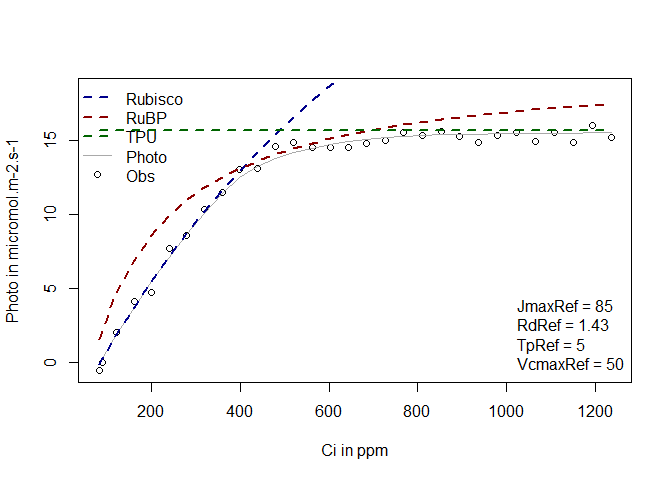
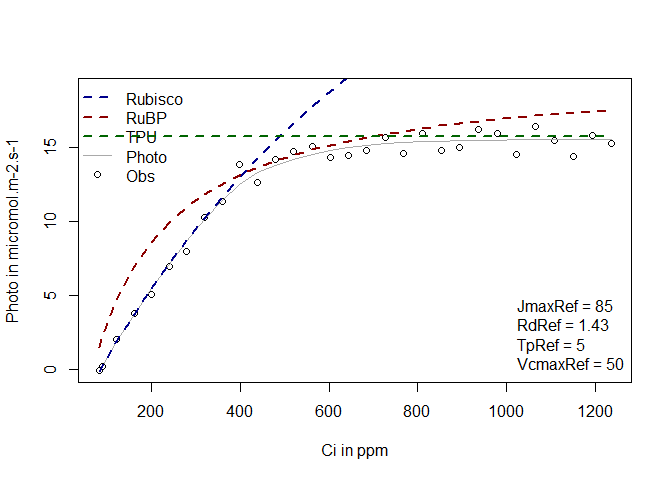
Adding the propagation of uncertainty to caclulate the confidence interval and the prediction interval of the photosynthesis

diff --git a/vignettes/Aci_fitting.md b/vignettes/Aci_fitting.md
@@ -29,21 +29,23 @@ Tair=27+273.16
 PAR=1800
 RH=80
 simul=f.A(PFD = PAR,cs = CO2,Tleaf = Tleaf,Tair = Tair,RH = RH,param = param)
-simul$A=simul$A+rnorm(n = length(CO2),mean = 0,sd = 0.4)
+
+# Here we include a normal error with a standard deviation proportionnal to the gross photosynthesis (as it is often observed)
+
+noise=unlist(lapply(X = simul$Ag,FUN = function(x){rnorm(n=1,mean=0,sd=0.035*(x))}))
+simul$A=simul$A+noise
 measures=data.frame(Tleaf=Tleaf,Ci=simul$ci,PARi=PAR,Photo=simul$A)
 ```
 
 We display this simulated curve using the function f.plot
 
 ``` r
-f.plot(measures = measures,type = 'Aci',
-       list_legend = param[c('VcmaxRef','JmaxRef','TpRef','RdRef')],
-       param = param)
+f.plot(measures = measures,type = 'Aci',list_legend = param[c('VcmaxRef','JmaxRef','TpRef','RdRef')],param = param)
 ```
 
 ![](Aci_fitting_files/figure-gfm/unnamed-chunk-2-1.png)<!-- -->
 
-\#\#Fitting an Aci curve
+## Fitting an Aci curve
 
 To fit an Aci curve, it is necessary to detail the parameter that we
 want to estimate. All the parameters present in f.make.param can
@@ -60,22 +62,19 @@ photosynthesis are used. In this example, we also give a very high value
 to TpRef so the TPU limitation is not considered when fitting the curve.
 
 ``` r
-fitting1=f.fitting(measures = measures,
-                   Start = list(JmaxRef = 30, VcmaxRef = 50, RdRef = 1),
-                   param=f.make.param(TpRef=50),
-                   modify.init=TRUE,do.plot=TRUE,type='Aci')
+fitting1=f.fitting(measures = measures,Start = list(JmaxRef = 30, VcmaxRef = 50, RdRef = 1),param=f.make.param(),modify.init=TRUE,do.plot=TRUE,type='Aci')
 ```
 
     ## $par
-    ##   JmaxRef  VcmaxRef     RdRef 
-    ## 79.161990 49.179085  1.212728 
+    ##  JmaxRef VcmaxRef    RdRef 
+    ## 78.51244 48.36841  1.16680 
     ## 
     ## $value
-    ## [1] 9.918262
+    ## [1] 17.35969
     ## 
     ## $counts
     ## function gradient 
-    ##      162       NA 
+    ##      128       NA 
     ## 
     ## $convergence
     ## [1] 0
@@ -83,34 +82,28 @@ fitting1=f.fitting(measures = measures,
     ## $message
     ## NULL
     ## 
-    ## [1] "sd 0.57498585509885"
+    ## [1] "sd 0.760694608423429"
     ## Length  Class   Mode 
     ##      1   mle2     S4
 
 ![](Aci_fitting_files/figure-gfm/unnamed-chunk-3-1.png)<!-- -->
 
-In the first exemple, the parameter TpRef was not included in the list
-Start, so the TPU limitation was not included in the fitting. In this
-second example, we now add TpRef in the list Start so the TPU limitation
-is also evaluated.
+In a second example we now also fit TpRef
 
 ``` r
-fitting2=f.fitting(measures = measures,
-                   Start = list(JmaxRef = 30, VcmaxRef = 50, RdRef = 1,TpRef=9),
-                   param=f.make.param(),
-                   modify.init=TRUE,do.plot=TRUE,type='Aci')
+fitting2=f.fitting(measures = measures,Start = list(JmaxRef = 30, VcmaxRef = 50, RdRef = 1,TpRef=9),param=f.make.param(),modify.init=TRUE,do.plot=TRUE,type='Aci')
 ```
 
     ## $par
     ##   JmaxRef  VcmaxRef     RdRef     TpRef 
-    ## 86.110531 50.072531  1.443516  5.005375 
+    ## 86.628962 50.379243  1.513889  4.973832 
     ## 
     ## $value
-    ## [1] 2.244302
+    ## [1] 9.426514
     ## 
     ## $counts
     ## function gradient 
-    ##      277       NA 
+    ##      387       NA 
     ## 
     ## $convergence
     ## [1] 0
@@ -118,7 +111,7 @@ fitting2=f.fitting(measures = measures,
     ## $message
     ## NULL
     ## 
-    ## [1] "sd 0.273514303065669"
+    ## [1] "sd 0.560550733535672"
     ## Length  Class   Mode 
     ##      1   mle2     S4
 
@@ -130,18 +123,18 @@ second object corresponds to a maximum likelihood which is made using
 the package mle2. This latter method is usefull because it allowes us to
 calculate the confidence interval of the parameters. The mean parameters
 used to simulate the curves (VcmaxRef = 50,JmaxRef=85,TpRef=5,
-RdRef=1.43 and sigma= 0.4) should be in the confidence interval.
+RdRef=1.43 and sigma\_b= 0.035) should be in the confidence interval.
 
 ``` r
 confint(fitting2[[2]])
 ```
 
-    ##               2.5 %     97.5 %
-    ## sigma     0.2166631  0.3605745
-    ## JmaxRef  83.6072505 88.7431597
-    ## VcmaxRef 47.8350948 52.4863658
-    ## TpRef     4.8836268  5.1300299
-    ## RdRef     1.1144461  1.7869679
+    ##                2.5 %      97.5 %
+    ## sigma_b   0.03089982  0.05151112
+    ## JmaxRef  82.39958570          NA
+    ## VcmaxRef 47.48716414 51.37171767
+    ## TpRef     4.79290861  5.09148706
+    ## RdRef     1.28516419  1.50849007
 
 It is possible to compare the AIC of the two models using the base
 function AIC. The lower AIC corresponds to the best model, showing that
@@ -152,10 +145,39 @@ the fit of the model.
 AIC(fitting1[[2]])
 ```
 
-    ## [1] 59.93172
+    ## [1] 62.20528
 
 ``` r
 AIC(fitting2[[2]])
 ```
 
-    ## [1] 17.35202
+    ## [1] 48.57756
+
+It is also possible to calculate the interval of confidence and
+prediction of the Aci curve from the outputs of the fitting.
+
+``` r
+var_cov=fitting2[[2]]@vcov
+random_param=rmvnorm(1000,mean=fitting2[[2]]@coef[c('sigma_b','JmaxRef','VcmaxRef','TpRef','RdRef')],sigma = var_cov)
+
+random_simul=matrix(data = NA,nrow = 1000,ncol = nrow(measures))
+for(i in 1:1000){
+  random_simul[i,]=f.Aci(PFD = measures$PARi,ci = measures$Ci,Tleaf =measures$Tleaf,param = f.make.param(VcmaxRef=random_param[i,'VcmaxRef'],JmaxRef=random_param[i,'JmaxRef'],TpRef=random_param[i,'TpRef'],RdRef=random_param[i,'RdRef']))$A
+}
+
+fit_pred=f.Aci(PFD = measures$PARi,ci = measures$Ci,Tleaf =measures$Tleaf,param = f.make.param(VcmaxRef=fitting2[[2]]@coef[c('VcmaxRef')],JmaxRef=fitting2[[2]]@coef[c('JmaxRef')],TpRef=fitting2[[2]]@coef[c('TpRef')],RdRef=fitting2[[2]]@coef[c('RdRef')]))
+
+sd_mean=apply(X = random_simul,MARGIN = 2,FUN =sd)
+sd_res=fitting2[[2]]@coef['sigma_b']*fit_pred$Ag
+sd_tot=sqrt(sd_mean^2+sd_res^2)
+simul_confint=rbind(fit_pred$A-1.96*sd_mean,fit_pred$A+1.96*sd_mean)
+simul_pred=rbind(fit_pred$A-1.96*sd_tot,fit_pred$A+1.96*sd_tot)
+
+f.plot(measures = measures,type = 'Aci',list_legend = param[c('VcmaxRef','JmaxRef','TpRef','RdRef')],param = param)
+polygon(c(measures$Ci ,rev(measures$Ci)),c(simul_pred[1,], rev(simul_pred[2,])),
+        col=adjustcolor("lightgrey",alpha.f=0.5),border=NA)
+polygon(c(measures$Ci ,rev(measures$Ci)),c(simul_confint[1,], rev(simul_confint[2,])),
+        col=adjustcolor("#99CC99",alpha.f=0.5),border=NA)
+```
+
+![](Aci_fitting_files/figure-gfm/unnamed-chunk-7-1.png)<!-- -->
